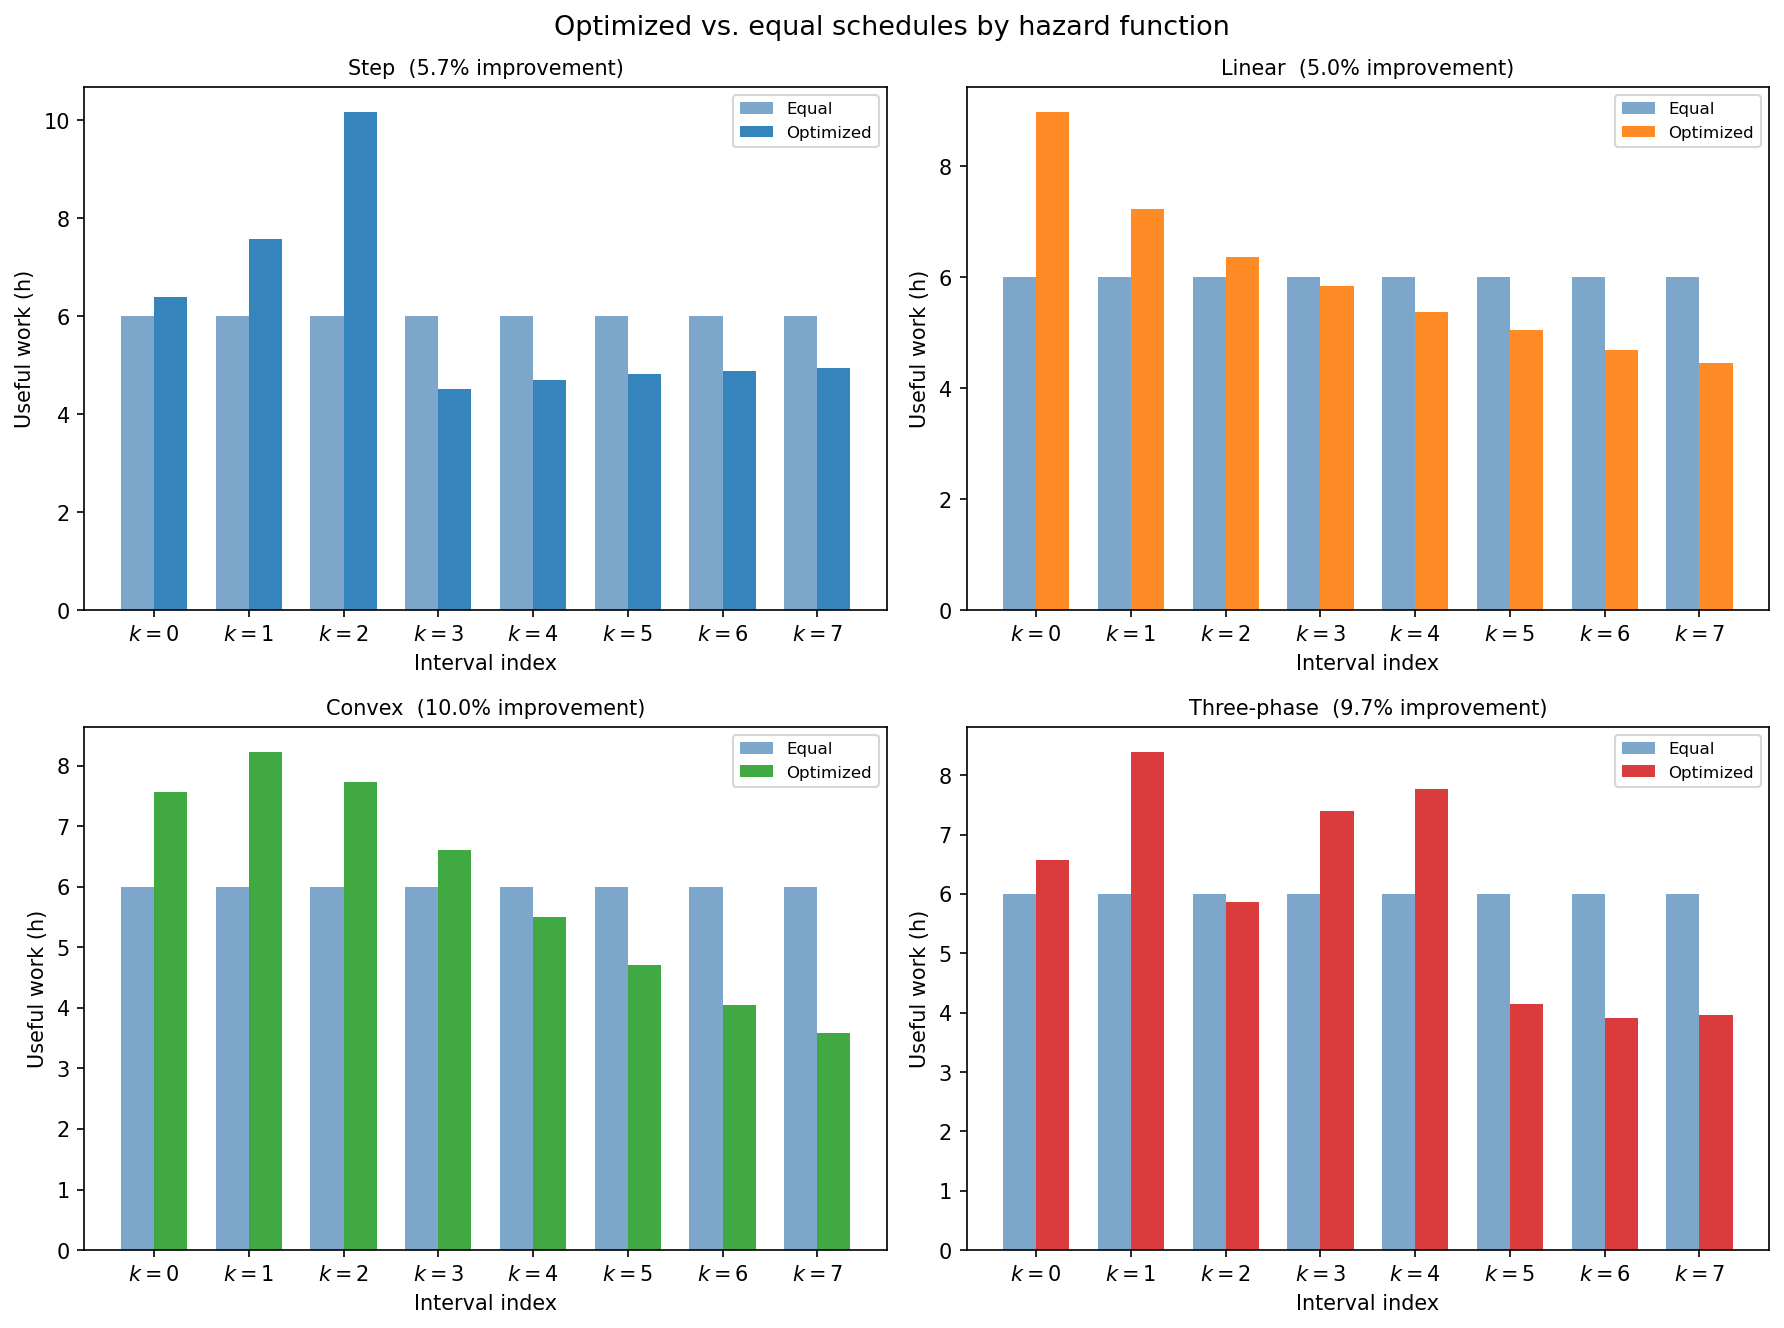
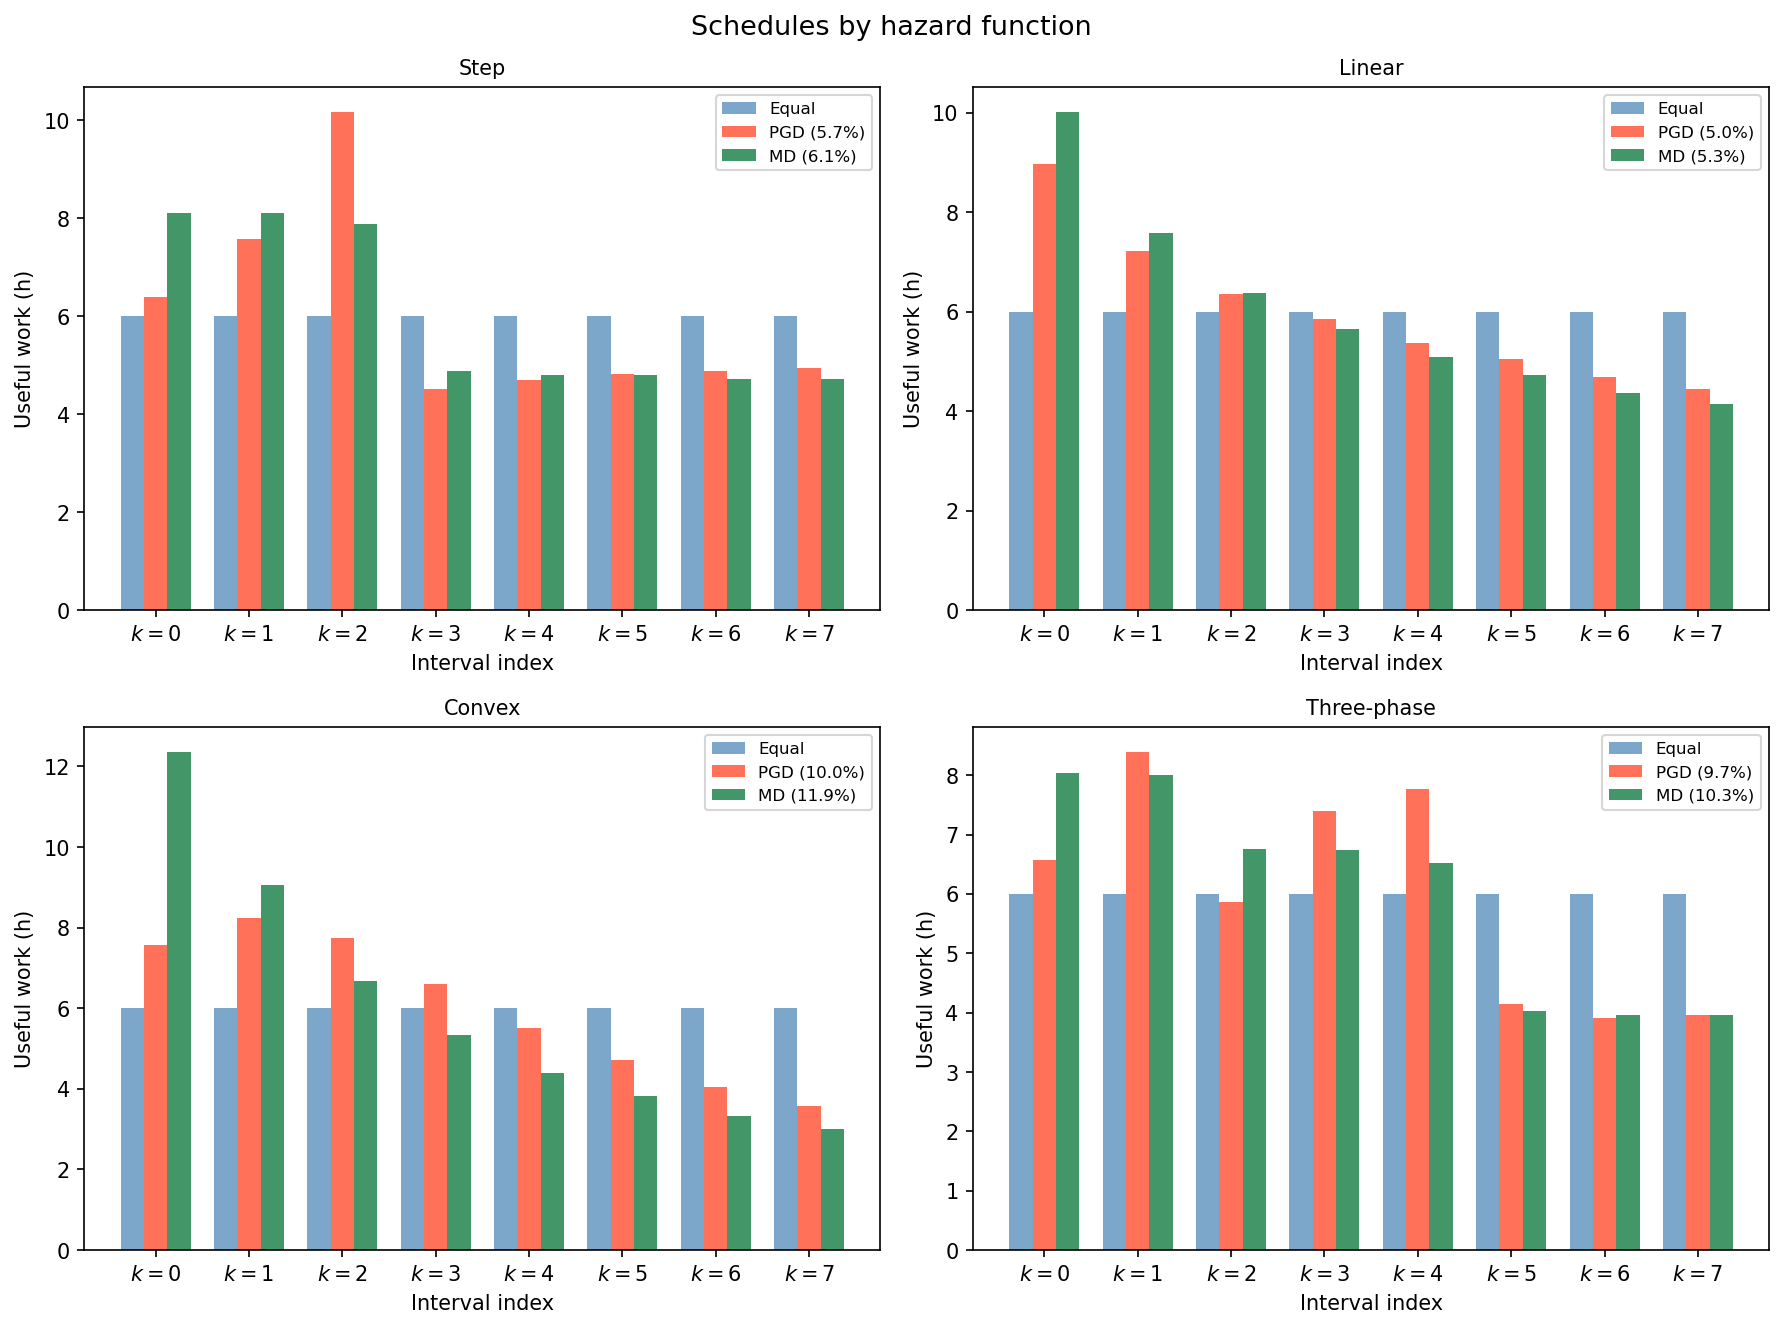
Add mirror descent (EG) optimizer; fix step size; update plots with 3-way comparison

diff --git a/optimization-stage-dependent-hazard.py b/optimization-stage-dependent-hazard.py
@@ -162,6 +162,61 @@ def optimize_pgd_internal_knots(
     }
 
 
+def optimize_mirror_descent(
+    problem: UsefulWorkHazardProblem,
+    max_iters: int = 1000,
+    step_size: float = 1e-2,
+    num_steps: int = 256,
+) -> Dict[str, object]:
+    """
+    Mirror descent with negative-entropy mirror map (exponentiated gradient)
+    in the shifted simplex coordinates Delta_tilde_k = Delta_k - epsilon.
+
+    Update rule:
+        Delta_tilde^{n+1}_k = T_tilde * Delta_tilde^n_k * exp(-alpha * g_k)
+                               / sum_j Delta_tilde^n_j * exp(-alpha * g_j)
+
+    where g = grad_Delta f and T_tilde = T - K * epsilon.
+    By construction every iterate satisfies Delta_tilde >= 0 and sum = T_tilde.
+
+    Step-size note: grad_delta is dimensionless (seconds/seconds) with
+    sup-norm ~ O(K).  The EG theoretical optimum for K intervals and T
+    iterations is  alpha* = sqrt(ln K) / (G * sqrt(T)) ~ 0.01.
+    """
+    K = problem.num_intervals
+    T_tilde = problem.total_useful_work - K * problem.epsilon
+
+    # Initialize: uniform shifted intervals
+    delta_tilde = np.full(K, T_tilde / K, dtype=float)
+
+    history = []
+    for it in range(max_iters):
+        delta = delta_tilde + problem.epsilon
+        grad = problem.gradient_delta(delta, num_steps=num_steps)
+        obj  = problem.objective_from_delta(delta, num_steps=num_steps)
+
+        # Exponentiated gradient update (log-sum-exp for numerical stability)
+        log_weights = np.log(delta_tilde) - step_size * grad
+        log_weights -= log_weights.max()              # shift for stability
+        weights = np.exp(log_weights)
+        delta_tilde_new = T_tilde * weights / weights.sum()
+
+        update_norm = np.linalg.norm(delta_tilde_new - delta_tilde)
+        history.append({"iter": it, "objective": obj, "update_norm": update_norm})
+
+        delta_tilde = delta_tilde_new
+        if update_norm < 1e-6:
+            break
+
+    delta = delta_tilde + problem.epsilon
+    return {
+        "delta": delta,
+        "objective": problem.objective_from_delta(delta, num_steps=num_steps),
+        "history": history,
+    }
+
+
+
 K = 8
 T = 48.0 * SECONDS_PER_HOUR  # Total useful work (e.g., 48 hours)
 epsilon = 0.5 * SECONDS_PER_HOUR  # Minimum interval length (e.g., 30 minutes)
@@ -191,24 +246,31 @@ for name, lambda_fn in HAZARD_FUNCTIONS.items():
     )
 
     pgd = optimize_pgd_internal_knots(prob, max_iters=100, step_size=1e3, num_steps=256)
+    md  = optimize_mirror_descent(prob, max_iters=500, step_size=1e-2, num_steps=256)
 
     equal_delta = np.full(K, T / K)
     equal_obj   = prob.objective_from_delta(equal_delta, num_steps=256)
-    opt_obj     = pgd["objective"]
-    improvement = 100.0 * (equal_obj - opt_obj) / equal_obj
+    pgd_obj     = pgd["objective"]
+    md_obj      = md["objective"]
+    pgd_improvement = 100.0 * (equal_obj - pgd_obj) / equal_obj
+    md_improvement  = 100.0 * (equal_obj - md_obj)  / equal_obj
 
-    print(f"  Equal obj:   {equal_obj:.2f}")
-    print(f"  Opt obj:     {opt_obj:.2f}")
-    print(f"  Improvement: {improvement:.2f}%")
+    print(f"  Equal obj:        {equal_obj:.2f}")
+    print(f"  PGD obj:          {pgd_obj:.2f}  ({pgd_improvement:.2f}%)")
+    print(f"  Mirror descent:   {md_obj:.2f}  ({md_improvement:.2f}%)")
 
     results[name] = {
-        "lambda_fn":    lambda_fn,
-        "equal_delta":  equal_delta,
-        "opt_delta":    pgd["delta"],
-        "equal_obj":    equal_obj,
-        "opt_obj":      opt_obj,
-        "improvement":  improvement,
-        "history":      pgd["history"],
+        "lambda_fn":        lambda_fn,
+        "equal_delta":      equal_delta,
+        "opt_delta":        pgd["delta"],
+        "md_delta":         md["delta"],
+        "equal_obj":        equal_obj,
+        "opt_obj":          pgd_obj,
+        "md_obj":           md_obj,
+        "improvement":      pgd_improvement,
+        "md_improvement":   md_improvement,
+        "history":          pgd["history"],
+        "md_history":       md["history"],
     }
 
 # ── Monte Carlo simulations ────────────────────────────────────────────────
@@ -228,30 +290,40 @@ for name, res in results.items():
         q=q,
         num_trials=1000,
     )
+    sim_md = monte_carlo_schedule_useful_work_hazard(
+        delta=res["md_delta"],
+        lambda_fn=lambda_fn,
+        q=q,
+        num_trials=1000,
+    )
     results[name]["sim_equal_runtime"] = sim_equal["mean_runtime"]
     results[name]["sim_pgd_runtime"]   = sim_pgd["mean_runtime"]
+    results[name]["sim_md_runtime"]    = sim_md["mean_runtime"]
     print(f"\n{name}:")
     print(f"  Equal schedule sim: {sim_equal}")
     print(f"  PGD schedule sim:   {sim_pgd}")
+    print(f"  MD schedule sim:    {sim_md}")
 
 # ── Plot 1: 2×2 interval bars ─────────────────────────────────────────────
 idx = np.arange(K)
-bar_w = 0.35
+bar_w = 0.25
 colors = plt.rcParams["axes.prop_cycle"].by_key()["color"]
 names = list(results.keys())
 
 fig, axes = plt.subplots(2, 2, figsize=(12, 9))
-fig.suptitle("Optimized vs. equal schedules by hazard function", fontsize=13)
+fig.suptitle("Schedules by hazard function", fontsize=13)
 
 for i, (name, res) in enumerate(results.items()):
     ax = axes[i // 2][i % 2]
 
-    ax.bar(idx - bar_w / 2, res["equal_delta"] / SECONDS_PER_HOUR,
+    ax.bar(idx - bar_w, res["equal_delta"] / SECONDS_PER_HOUR,
            width=bar_w, label="Equal", color="steelblue", alpha=0.7)
-    ax.bar(idx + bar_w / 2, res["opt_delta"] / SECONDS_PER_HOUR,
-           width=bar_w, label="Optimized", color=colors[i], alpha=0.9)
+    ax.bar(idx,         res["opt_delta"]   / SECONDS_PER_HOUR,
+           width=bar_w, label=f"PGD ({res['improvement']:.1f}%)", color="tomato", alpha=0.9)
+    ax.bar(idx + bar_w, res["md_delta"]    / SECONDS_PER_HOUR,
+           width=bar_w, label=f"MD ({res['md_improvement']:.1f}%)", color="seagreen", alpha=0.9)
 
-    ax.set_title(f"{name}  ({res['improvement']:.1f}% improvement)", fontsize=10)
+    ax.set_title(name, fontsize=10)
     ax.set_xlabel("Interval index")
     ax.set_ylabel("Useful work (h)")
     ax.set_xticks(idx)
@@ -263,20 +335,24 @@ plt.savefig("schedules_by_hazard.png", dpi=150, bbox_inches="tight")
 print("\nSaved schedules_by_hazard.png")
 
 # ── Plot 2: 1×2 summary — analytic objective + simulated mean runtime ──────
-fig2, (ax_obj, ax_sim) = plt.subplots(1, 2, figsize=(12, 4))
+fig2, (ax_obj, ax_sim) = plt.subplots(1, 2, figsize=(13, 4))
 names             = list(results.keys())
 equal_objs        = [results[n]["equal_obj"]         for n in names]
 opt_objs          = [results[n]["opt_obj"]           for n in names]
+md_objs           = [results[n]["md_obj"]            for n in names]
 sim_equal_runtime = [results[n]["sim_equal_runtime"] for n in names]
 sim_pgd_runtime   = [results[n]["sim_pgd_runtime"]   for n in names]
+sim_md_runtime    = [results[n]["sim_md_runtime"]    for n in names]
 x = np.arange(len(names))
+sw = 0.25  # summary bar width
 
 # Left: analytic objective
-ax_obj.bar(x - bar_w / 2, equal_objs, width=bar_w, label="Equal",     color="steelblue", alpha=0.7)
-ax_obj.bar(x + bar_w / 2, opt_objs,   width=bar_w, label="Optimized", color="tomato",    alpha=0.9)
+ax_obj.bar(x - sw, equal_objs, width=sw, label="Equal",  color="steelblue", alpha=0.7)
+ax_obj.bar(x,      opt_objs,   width=sw, label="PGD",    color="tomato",    alpha=0.9)
+ax_obj.bar(x + sw, md_objs,    width=sw, label="MD",     color="seagreen",  alpha=0.9)
 for i, n in enumerate(names):
-    ax_obj.text(i, max(equal_objs[i], opt_objs[i]) * 1.01,
-                f"{results[n]['improvement']:.1f}%", ha="center", fontsize=9)
+    ax_obj.text(i,      opt_objs[i] * 1.01, f"{results[n]['improvement']:.1f}%",   ha="center", fontsize=8, color="tomato")
+    ax_obj.text(i + sw, md_objs[i]  * 1.01, f"{results[n]['md_improvement']:.1f}%", ha="center", fontsize=8, color="seagreen")
 ax_obj.set_xticks(x)
 ax_obj.set_xticklabels(names)
 ax_obj.set_ylabel("Analytic objective (s)")
@@ -284,12 +360,15 @@ ax_obj.set_title("Analytic objective")
 ax_obj.legend()
 
 # Right: simulated mean runtime
-sim_improvement = [100.0 * (e - p) / e for e, p in zip(sim_equal_runtime, sim_pgd_runtime)]
-ax_sim.bar(x - bar_w / 2, sim_equal_runtime, width=bar_w, label="Equal",     color="steelblue", alpha=0.7)
-ax_sim.bar(x + bar_w / 2, sim_pgd_runtime,   width=bar_w, label="Optimized", color="tomato",    alpha=0.9)
+sim_pgd_impr = [100.0 * (e - p) / e for e, p in zip(sim_equal_runtime, sim_pgd_runtime)]
+sim_md_impr  = [100.0 * (e - p) / e for e, p in zip(sim_equal_runtime, sim_md_runtime)]
+ax_sim.bar(x - sw, sim_equal_runtime, width=sw, label="Equal", color="steelblue", alpha=0.7)
+ax_sim.bar(x,      sim_pgd_runtime,   width=sw, label="PGD",   color="tomato",    alpha=0.9)
+ax_sim.bar(x + sw, sim_md_runtime,    width=sw, label="MD",    color="seagreen",  alpha=0.9)
 for i in range(len(names)):
-    ax_sim.text(i, max(sim_equal_runtime[i], sim_pgd_runtime[i]) * 1.01,
-                f"{sim_improvement[i]:.1f}%", ha="center", fontsize=9)
+    top = max(sim_equal_runtime[i], sim_pgd_runtime[i], sim_md_runtime[i]) * 1.01
+    ax_sim.text(i,      top, f"{sim_pgd_impr[i]:.1f}%", ha="center", fontsize=8, color="tomato")
+    ax_sim.text(i + sw, top, f"{sim_md_impr[i]:.1f}%",  ha="center", fontsize=8, color="seagreen")
 ax_sim.set_xticks(x)
 ax_sim.set_xticklabels(names)
 ax_sim.set_ylabel("Mean runtime (s)")

diff --git a/utils/helpers.py b/utils/helpers.py
@@ -190,7 +190,6 @@ class UsefulWorkHazardProblem:
         gT = self.gradient_internal_knots(T_internal, num_steps=num_steps)
 
         gDelta = np.zeros(self.num_intervals, dtype=float)
-        # By the partner's formula
         gDelta[-1] = 0.0
         for j in range(self.num_intervals - 2, -1, -1):
             if j == self.num_intervals - 2: